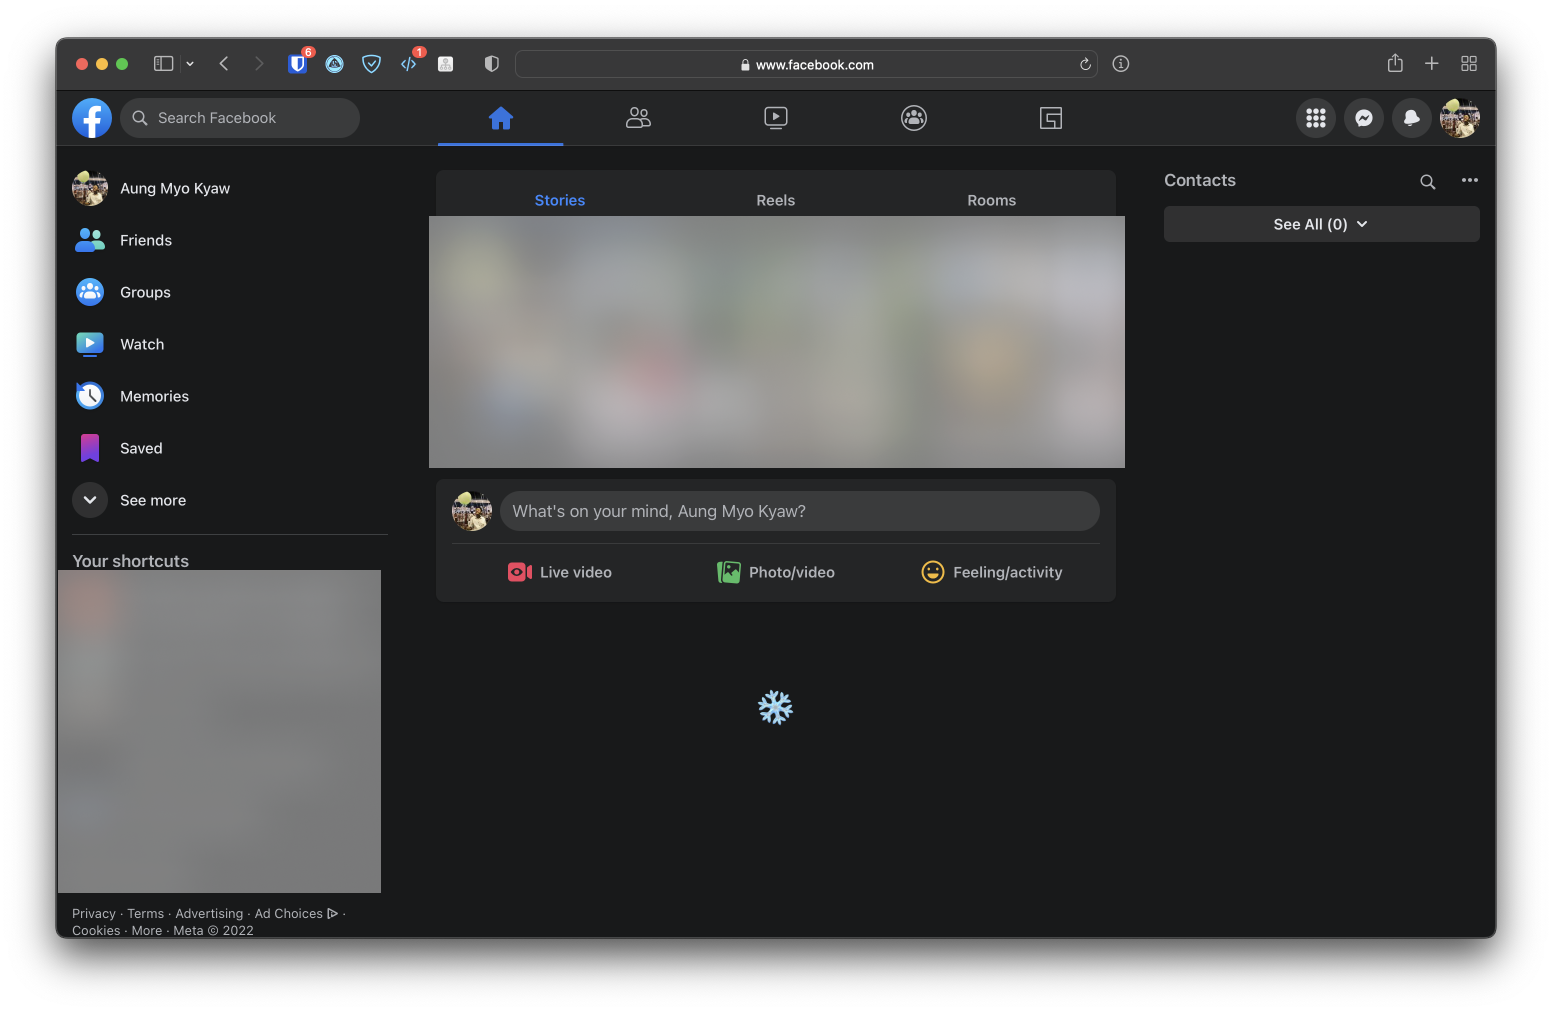
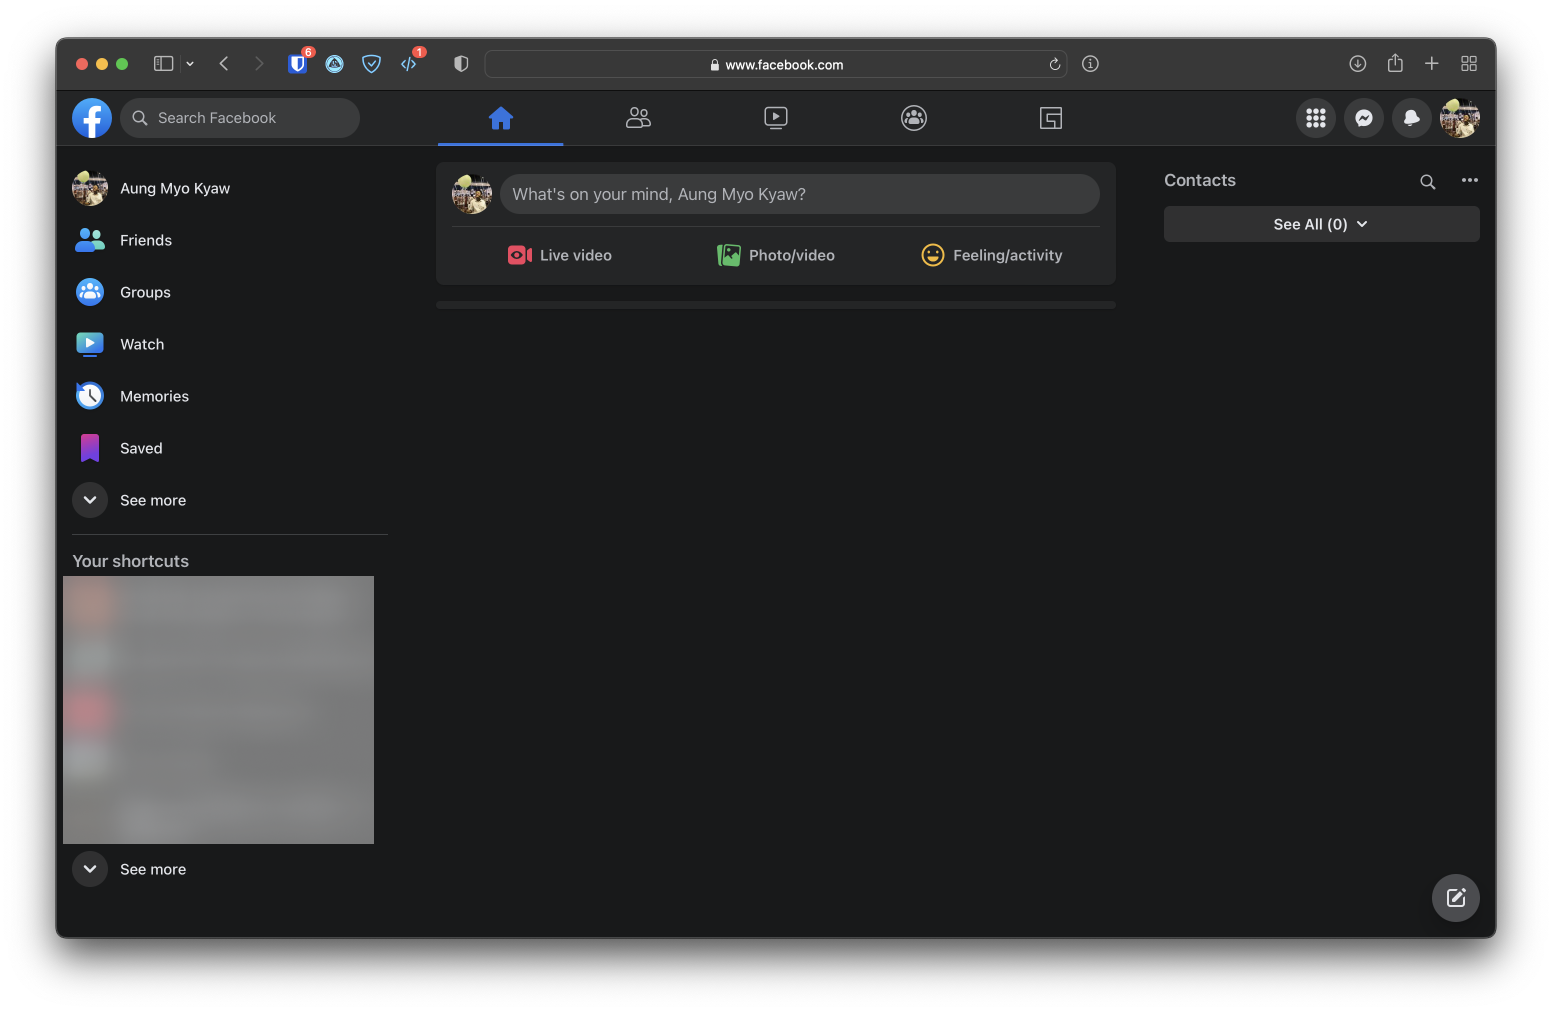
feat: hide stories and video chat room

diff --git a/release/clean-fb-newsfeed.js b/release/clean-fb-newsfeed.js
@@ -15,15 +15,34 @@ function hideFeed() {
   }
 }
 
+function hideStories() {
+  var stories = document.querySelectorAll("div[aria-label=Stories]");
+  for (var i = 0; i < stories.length; i++) {
+    var story = stories[i];
+    story.style.display = "none";
+  }
+}
+
+function hideVideoChatRoom() {
+  var chatrooms = document.querySelectorAll(
+    "div[aria-label='video chats that people can join']"
+  );
+  for (var i = 0; i < chatrooms.length; i++) {
+    var chatroom = chatrooms[i];
+    chatroom.style.display = "none";
+  }
+}
+
 function addRandomQuoteForHiddenPost() {
   var feeds = document.querySelectorAll("div[role=article]");
   for (var i = 0; i < feeds.length; i++) {
     var feed = feeds[i];
-    var feedTEXT = feeds[i].innerText;
+    var feedTEXT = feeds[i].innerText || "";
     // Something went wrong
     // This may be because of a technical error that we're working to get fixed. Try reloading this page.
     // Reload Page
-    if (feedTEXT.match(/something went wrong/gi).length > 0) {
+    var feedTextMatch = feedTEXT.match(/something went wrong/gi) || [];
+    if (feedTextMatch.length > 0) {
       feed.style.display = "block";
       feed.innerHTML =
         "<div style='display: flex; align-items: center; justify-content: center; height: 15em;'><div style='color: white; font-size: 3em;'>" +
@@ -44,6 +63,8 @@ const callback = (mutationList, observer) => {
   for (const mutation of mutationList) {
     hideFeed();
     addRandomQuoteForHiddenPost();
+    hideStories();
+    hideVideoChatRoom();
   }
 };
 
